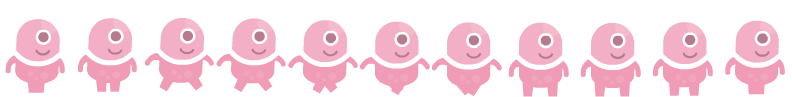
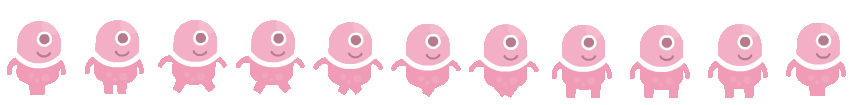
Added 3px of empty space to each side of each frame of animation to prevent webGL pixel bleeding

diff --git a/examples/reference_room/sprite_animation/sprite_animation.js b/examples/reference_room/sprite_animation/sprite_animation.js
@@ -19,7 +19,8 @@ function preload() {
     this.load.image('wall_terminal_img', '../../assets/images/terminal_5x.png');
 
     // Load the player sprite sheet
-    this.load.spritesheet('player_sheet', '../../assets/images/player_sheet.png', { frameWidth: 72, frameHeight: 97 });
+    // Added 3px of empty space to each side of each frame of animation to prevent webGL pixel bleeding 
+    this.load.spritesheet('player_sheet', '../../assets/images/player_sheet.png', { frameWidth: 78, frameHeight: 103 });
 
     // load the tilemap exported from Tiled
     this.load.tilemapTiledJSON('map', '../../assets/tilemaps/animated_room.json');
